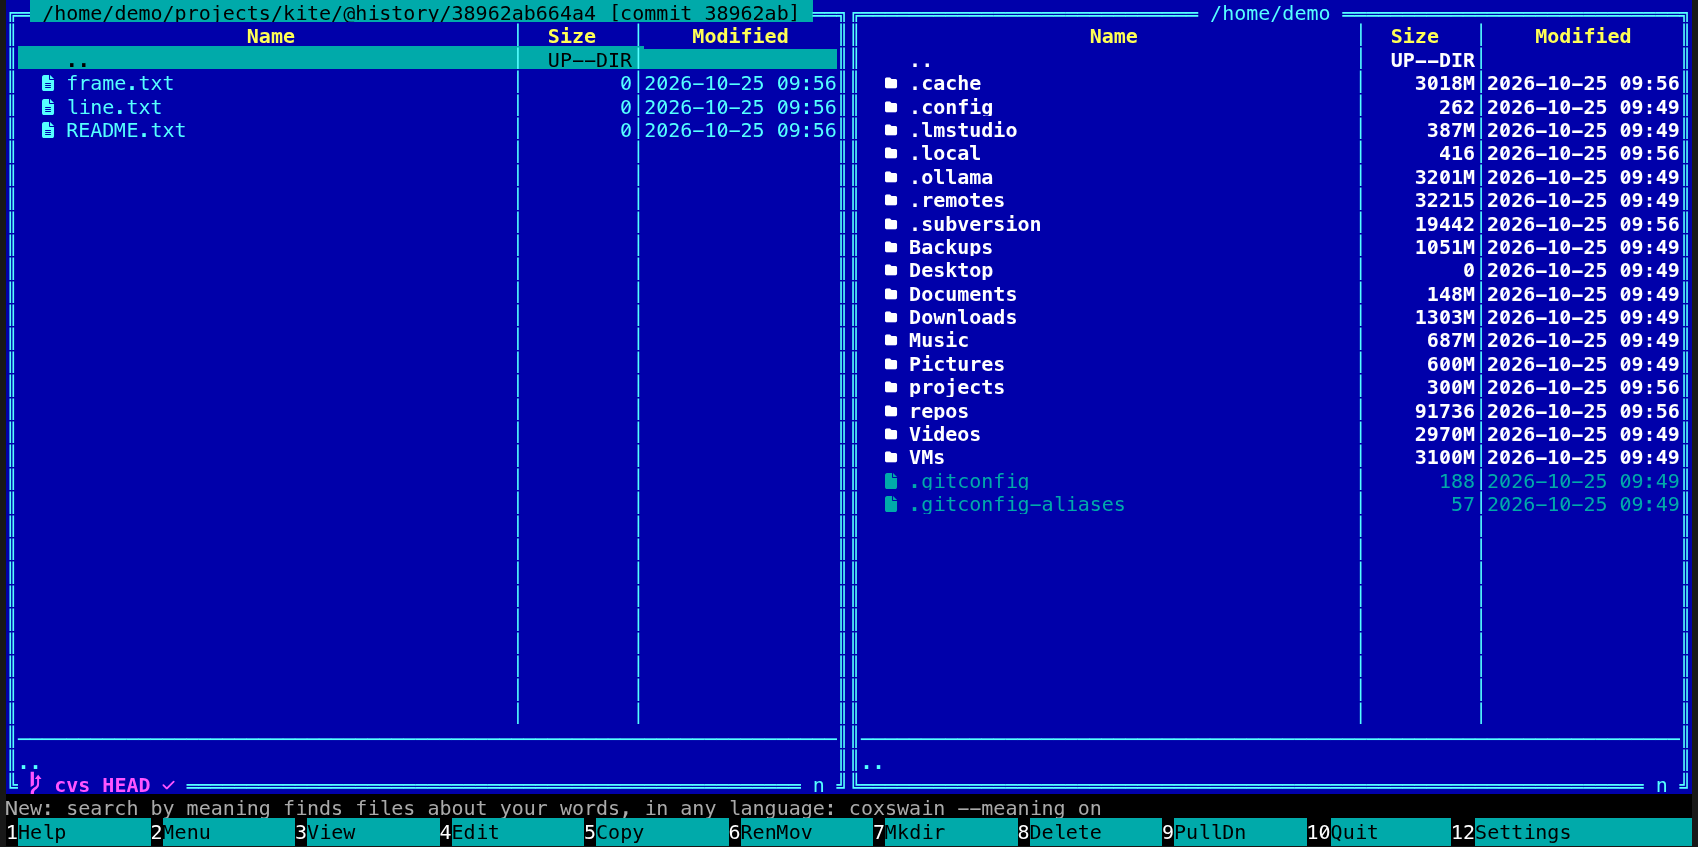
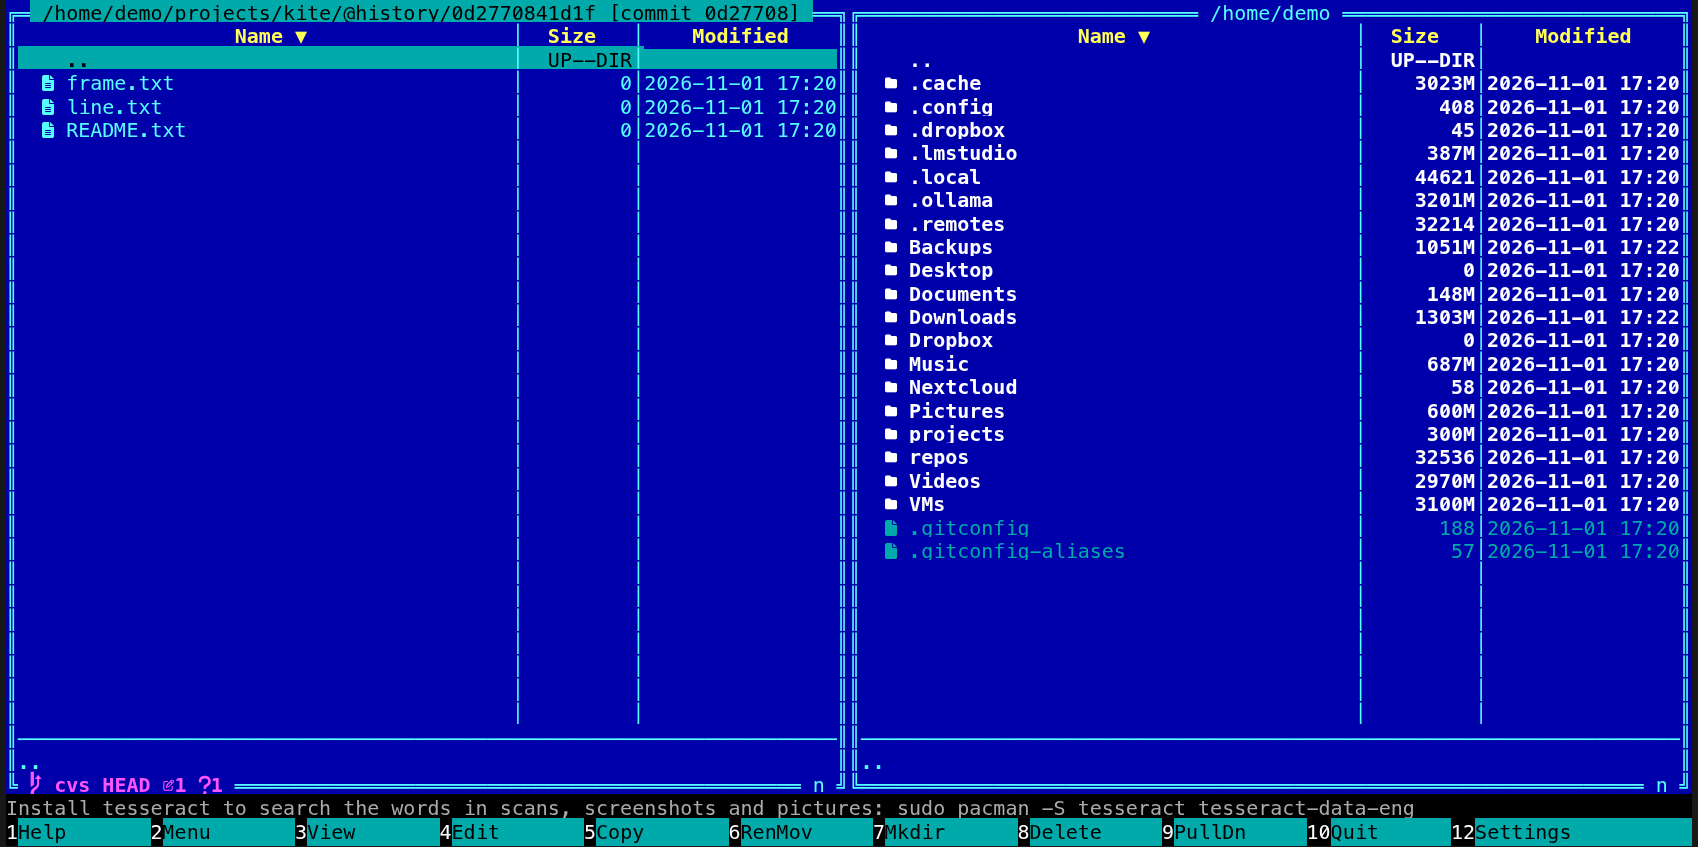
Pictures: CVS, Mercurial, Jujutsu lines, the virus scan box and a stopped copy in the terminal app
demo-home.sh makes kite (CVS), glider (Mercurial) and lander (Jujutsu)
when cvs, hg and jj are installed; scenes.py gets their scenes, the
virus scan (a stand-in podman bound over the real one for that scene
runs the installed clamscan on an EICAR-only database) and a copy of a
sparse 16 GB image caught while it runs. tui-cvs-commit.png retaken from
the new kite.

diff --git a/docs/screenshots/scenes.py b/docs/screenshots/scenes.py
@@ -115,6 +115,96 @@ def mk_logs():
     return run
 
 
+def mk_big():
+    """Big: a folder of small files and a 16 GB disk image (sparse: it takes no room, and a copy
+    of it skips its zeros), so a copy of both runs long enough to be seen. What the copy puts into
+    Backups goes again."""
+    def run():
+        d = demo("Big")
+        backups = keep("Backups")()
+        try:
+            (d / "tree").mkdir(parents=True)
+            for i in range(40):
+                (d / "tree" / f"leaf-{i:02}.txt").write_bytes(b"leaf\n" * 2800)
+            with (d / "disk.img").open("wb") as f:
+                f.truncate(16 << 30)
+        except BaseException:
+            shutil.rmtree(d, ignore_errors=True)
+            raise
+        return lambda: (shutil.rmtree(d, ignore_errors=True), backups())
+    return run
+
+
+# The EICAR test file: no virus, but every scanner reports it as one (in two parts, so this
+# file is not taken for it).
+EICAR = "X5O!P%@AP[4\\PZX54(P^)7CC)7}$EICAR" + "-STANDARD-ANTIVIRUS-TEST-FILE!$H+H*"
+# Containers never run in the sandbox: for the virus scan a stand-in podman, bound over the
+# real one for that scene only, runs the clamscan installed here instead, on a database of
+# EICAR alone that it makes itself, and answers the questions the app asks podman first.
+PODMAN = r'''#!/usr/bin/python3
+import hashlib, os, subprocess, sys, tempfile
+a = sys.argv[1:]
+if a[:2] == ["image", "inspect"]:
+    sys.exit(print(312000000))
+if a[:1] == ["info"]:
+    sys.exit(print("true"))
+if a[:1] != ["run"] or "clamscan" not in a:
+    sys.exit(0)
+at = {}
+for i, x in enumerate(a[:-1]):
+    if x == "--mount":
+        m = dict(kv.split("=", 1) for kv in a[i + 1].replace('"', "").split(",") if "=" in kv)
+        at[m["target"]] = m["source"]
+eicar = "EICAR_TEXT".encode()
+tmp = tempfile.mkdtemp()
+open(f"{tmp}/eicar.hdb", "w").write(f"{hashlib.md5(eicar).hexdigest()}:{len(eicar)}:Eicar-Test-Signature\n")
+src = at["/src"].rstrip("/") + "/"
+names = open(at["/list"] + "/files").read().splitlines()
+open(f"{tmp}/files", "w").write("".join(src + n[5:] + "\n" for n in names))
+r = subprocess.run(["clamscan", f"--database={tmp}/eicar.hdb", f"--file-list={tmp}/files", "--no-summary", "--stdout"], capture_output=True, text=True)
+for line in r.stdout.splitlines():
+    print("/src/" + line[len(src):].replace(".UNOFFICIAL", "") if line.startswith(src) else line, flush=True)
+sys.exit(r.returncode)
+'''.replace("EICAR_TEXT", EICAR.replace("\\", "\\\\"))
+
+
+def mk_viruses():
+    """The EICAR file and a zip holding it in Downloads, a virus database said to be fresh, and
+    the stand-in podman."""
+    import time, zipfile
+    def run():
+        dl, db = demo("Downloads"), demo(".cache", "coxswain", "clamav")
+        shim = cap.RUNTIME / "podman-stand-in"
+        old_args = os.environ.get("SANDBOX_ARGS")
+        def undo():
+            for f in ("eicar.com", "test-files.zip"):
+                (dl / f).unlink(missing_ok=True)
+            shutil.rmtree(db, ignore_errors=True)
+            shim.unlink(missing_ok=True)
+            if old_args is None:
+                os.environ.pop("SANDBOX_ARGS", None)
+            else:
+                os.environ["SANDBOX_ARGS"] = old_args
+        try:
+            (dl / "eicar.com").write_text(EICAR)
+            with zipfile.ZipFile(dl / "test-files.zip", "w") as z:
+                z.writestr("test-files/eicar.com", EICAR)
+                z.writestr("test-files/readme.txt", "Test files for the virus scanner.\n")
+            db.mkdir(parents=True, exist_ok=True)
+            (db / "main.cvd").write_bytes(b"")
+            (db / "updated").write_bytes(b"")
+            os.utime(db / "updated", (time.time() - 3 * 3600,) * 2)
+            shim.write_text(PODMAN)
+            shim.chmod(0o755)
+            real = os.path.realpath(shutil.which("podman") or "/usr/bin/podman")
+            os.environ["SANDBOX_ARGS"] = f"{old_args or ''} --ro-bind {shim} {real}"
+        except BaseException:
+            undo()
+            raise
+        return undo
+    return run
+
+
 START = []                         # the first-run guide is closed before the keys (guide=False: not)
 ROCKET_README = START + ["Down"] * 8
 
@@ -150,6 +240,20 @@ scene("tui-git-facts.png", args=["/home/demo/projects", "/home/demo/projects/roc
 scene("tui-fetch-pull.png", args=["/home/demo/projects/rocket", "/home/demo/projects/website"], keys=["M-d", "wait:2"], setup=mk_diverged())
 scene("tui-long-files-menu.png", args=["/home/demo", "/home/demo/logs"], setup=mk_logs(),
       keys=["Down*13", "S-F10", "Down*60", "Up*2", "Enter"])
+
+# ---- other version controls (demo-home.sh makes kite, glider and lander when cvs, hg and jj are installed)
+scene("cvs-line.png", args=["/home/demo/projects/kite", "/home/demo/projects/rocket"], keys=START + ["Down*2"])
+scene("tui-cvs-ask.png", args=["/home/demo/projects/kite", "/home/demo/projects/rocket"], keys=START + ["C-g"])
+scene("tui-cvs-history.png", args=["/home/demo/projects/kite", "/home/demo/projects/rocket"], keys=START + ["C-g", "Enter", "wait:3"])
+scene("tui-cvs-commit.png", args=["/home/demo/projects/kite", "/home/demo"], keys=START + ["C-g", "Enter", "wait:3", "Down*2", "Enter", "wait:2"])
+scene("tui-hg-line.png", args=["/home/demo/projects/glider", "/home/demo/projects/rocket"], keys=START + ["Down*3", "wait:2"])
+scene("tui-jj-line.png", args=["/home/demo/projects/lander", "/home/demo/projects/rocket"], keys=START + ["Down*3", "wait:2"])
+
+# ---- files
+scene("tui-virus-scan.png", args=["/home/demo/Downloads", "/home/demo/Documents"], setup=mk_viruses(),
+      config="preview.virus_scan = true\npreview.container = \"podman\"\n", keys=START + ["Home", "M-i", "wait:2", "Enter", "wait:4", "q"])
+scene("tui-copy-stop.png", args=["/home/demo/Big", "/home/demo/Backups"], setup=mk_big(),
+      keys=START + ["Down", "IC", "IC", "F5", "Enter", "wait:2"])
 
 # ---- GIFs: the first frame is saved beside as <name>.png
 scene("copy.gif", args=["/home/demo/Documents", "/home/demo/Backups"], record=5.5, setup=keep("Backups"),

diff --git a/docs/panels/cvs.md b/docs/panels/cvs.md
@@ -12,7 +12,7 @@ only once you say yes to that server: **Ctrl+G** asks first, then lists the comm
 ([Fetch and pull](fetch-and-pull.md)). Commit stays with CVS: **Alt+G** opens a terminal in the folder for it.
 Both apps do this.
 
-<!-- screenshot: cvs-line.png: The terminal app in Classic blue: the CVS working copy kite on the left with src marked modified and notes.txt unknown, the line cvs HEAD with its counts in the panel's bottom border; on the right the Subversion working copy balloon with svn r2 trunk -->
+![The terminal app in Classic blue: the CVS working copy kite on the left with the cursor on src, marked modified, notes.txt marked unknown, and the line cvs HEAD with one modified and one unknown file in the panel's bottom border; on the right rocket with its git line](../screenshots/cvs-line.png)
 
 ## Contents
 
@@ -57,7 +57,7 @@ copy first asks, once per server, as for [Subversion](subversion.md#history-from
 (**Read the history** or **Cancel**), the terminal app a box (**Enter** or **Y** reads, **Esc** or
 **N** cancels).
 
-<!-- screenshot: tui-cvs-ask.png: The terminal app in Classic blue in ~/projects/kite, a CVS working copy, with the box Read the history from the server?: CVS keeps this history on its server, /home/demo/repos/cvsroot, … Settings → Privacy and updates forgets it, and the key line Enter Read the history · Esc Cancel -->
+![The terminal app in Classic blue in ~/projects/kite, a CVS working copy, with the box Read the history from the server?: CVS keeps this history on its server, /home/demo/repos/cvsroot, … Settings → Privacy and updates forgets it, and the key line Enter Read the history · Esc Cancel](../screenshots/tui-cvs-ask.png)
 
 With yes, Coxswain runs `cvs -f -d <root> log -N` in the folder (`-f`: your `~/.cvsrc` is not
 read; `-d`: the root of the folder asked about, for every folder below too, whatever their own
@@ -79,7 +79,7 @@ read; `-d`: the root of the folder asked about, for every folder below too, what
 - **A file's history** is the commits of its folder that touched it, so a commit has the same
   name in both.
 
-<!-- screenshot: tui-cvs-history.png: The terminal app's kite/@history after the yes: 1d6dd92 Spar a little longer, 672e4cb Longer spar, red sail, 2287482 Initial revision and 055056e Start the kite, newest first -->
+![The terminal app's kite/@history after the yes: c8575e7 Spar a little longer, 0d27708 Longer spar, red sail, 08e009c Initial revision and e1a4e43 Start the kite, newest first](../screenshots/tui-cvs-history.png)
 
 ## Inside a commit
 
@@ -96,7 +96,7 @@ files removed by then are left out. Only the file contents are asked of the serv
 | What the commit changed | **Diff** at the top of the preview pane: each file's change against its revision before | – | `cvs diff -N -u -r <before> -r <revision>` |
 | A copy out | **F5** on a file, a folder or a commit in the list, to the other pane | The same | `cvs update -p`, one file at a time |
 
-![The terminal app in Classic blue inside a commit of kite: the panel titled /home/demo/projects/kite/@history/38962ab664a4 [commit 38962ab] lists frame.txt, line.txt and README.txt as they were at Longer spar, red sail, each dated with the commit and sized 0](../screenshots/tui-cvs-commit.png)
+![The terminal app in Classic blue inside a commit of kite: the panel titled /home/demo/projects/kite/@history/0d2770841d1f [commit 0d27708] lists frame.txt, line.txt and README.txt as they were at Longer spar, red sail, each dated with the commit and sized 0](../screenshots/tui-cvs-commit.png)
 
 - **Nothing a working copy names runs:** only `log`, `update -p` and `diff` are run, always with
   `-f` and `-d <root>`. `update -p` writes nothing to the working copy and runs no

diff --git a/docs/panels/jujutsu.md b/docs/panels/jujutsu.md
@@ -10,7 +10,7 @@ file or folder and **Alt+B** the bookmarks, as folders. It only reads, apart fro
 
 ![The desktop app (Cyber) in ~/projects/lander, a Jujutsu repository without .git, the sidebar hidden: docs and src marked, the Last commit column with 2026-10-15 Ada on docs and src and 2026-10-10 Ada on README.md, and at the right of the pane's footer the line jj xkpqlmnu main with one added and one modified file](../screenshots/jj-line.png)
 
-<!-- screenshot: tui-jj-line.png: The terminal app in Classic blue: lander on the left with the cursor on src, its last commit d337448 2026-10-15 16:20 Ada on the info line and the line jj xkpqlmnu main with its counts in the panel's bottom border, rocket on the right with its git line -->
+![The terminal app in Classic blue: lander on the left with the cursor on src, docs marked added and src modified, src's last commit 147acdc with its date and Ada on the info line and the line jj vsvurszs main with one added and one modified file in the panel's bottom border; rocket on the right with its git line](../screenshots/tui-jj-line.png)
 
 ## Contents
 

diff --git a/docs/panels/mercurial.md b/docs/panels/mercurial.md
@@ -12,7 +12,7 @@ this, through the `hg` program you have installed.
 
 ![The desktop app (Cyber) in ~/projects/glider, a Mercurial repository, the sidebar hidden: src marked modified, NOTES.txt unknown, the Last commit column with 2026-10-20 Ada on docs and src and 2026-10-12 Bob on README.md, and at the right of the pane's footer the line hg main with one modified and one unknown file](../screenshots/hg-line.png)
 
-<!-- screenshot: tui-hg-line.png: The terminal app in Classic blue: glider on the left with the cursor on src, its last commit 61a26d4 2026-10-20 18:40 Ada on the info line and the line hg main with its counts in the panel's bottom border, rocket on the right with its git line -->
+![The terminal app in Classic blue: glider on the left with the cursor on src, marked modified, NOTES.txt marked unknown, src's last commit d1d61ac with its date and Ada on the info line and the line hg main with one modified and one unknown file in the panel's bottom border; rocket on the right with its git line](../screenshots/tui-hg-line.png)
 
 ## Contents
 

diff --git a/docs/files/copy.md b/docs/files/copy.md
@@ -86,7 +86,7 @@ A copy can be stopped while it runs, in both apps, without a question:
 
 ![The desktop app copying two marked items from Big to Backups: the status line says Working on disk.img… (2/2) with a progress bar and a Stop button, and the half-copied file waits in Backups under a passing name, .disk.img.coxswain-tmp-2-0](../screenshots/files-copy-stop.png)
 
-<!-- screenshot: tui-copy-stop.png: The terminal app in Classic blue copying the same two items: the status line says Working on "disk.img"… (2/2) · Esc stops -->
+![The terminal app in Classic blue copying two marked items, tree and disk.img, from Big to Backups: the status line says Working on "disk.img"… (2/2) · Esc stops, and the half-copied file waits in Backups under a passing name starting .disk.img.coxswain-tmp](../screenshots/tui-copy-stop.png)
 
 The line says `Stopping…` until the file it is on is dealt with, within a second also for a
 large file (a file over 8 MB is copied in steps of a megabyte, under a passing name beside the

diff --git a/docs/files/virus-scan.md b/docs/files/virus-scan.md
@@ -153,7 +153,7 @@ change a pinned image; the database is what keeps the scan current.
 
 ## In the terminal app
 
-<!-- screenshot: tui-virus-scan.png: The terminal app's box Found by ClamAV over the Downloads panel: Quarantine for eicar.com and Leave it for test-files.zip, each with Eicar-Test-Signature, the quarantine folder above and the key line Up/Down a file · N leave it · B bin · Q quarantine · Enter Do it · Esc Close; both files marked in the panel -->
+![The terminal app's box Found by ClamAV over the Downloads panel: Quarantine for eicar.com and Leave it for test-files.zip, each with Eicar-Test-Signature, the quarantine folder above and the key line Up/Down a file · N leave it · B bin · Q quarantine · Enter Do it · Esc Close; both files marked in the panel](../screenshots/tui-virus-scan.png)
 
 The same action, key, question and list, as dialogs; the status line shows how far it is, and
 **Alt+I** again stops it. Quitting while it runs stops the scan first, so its container goes
